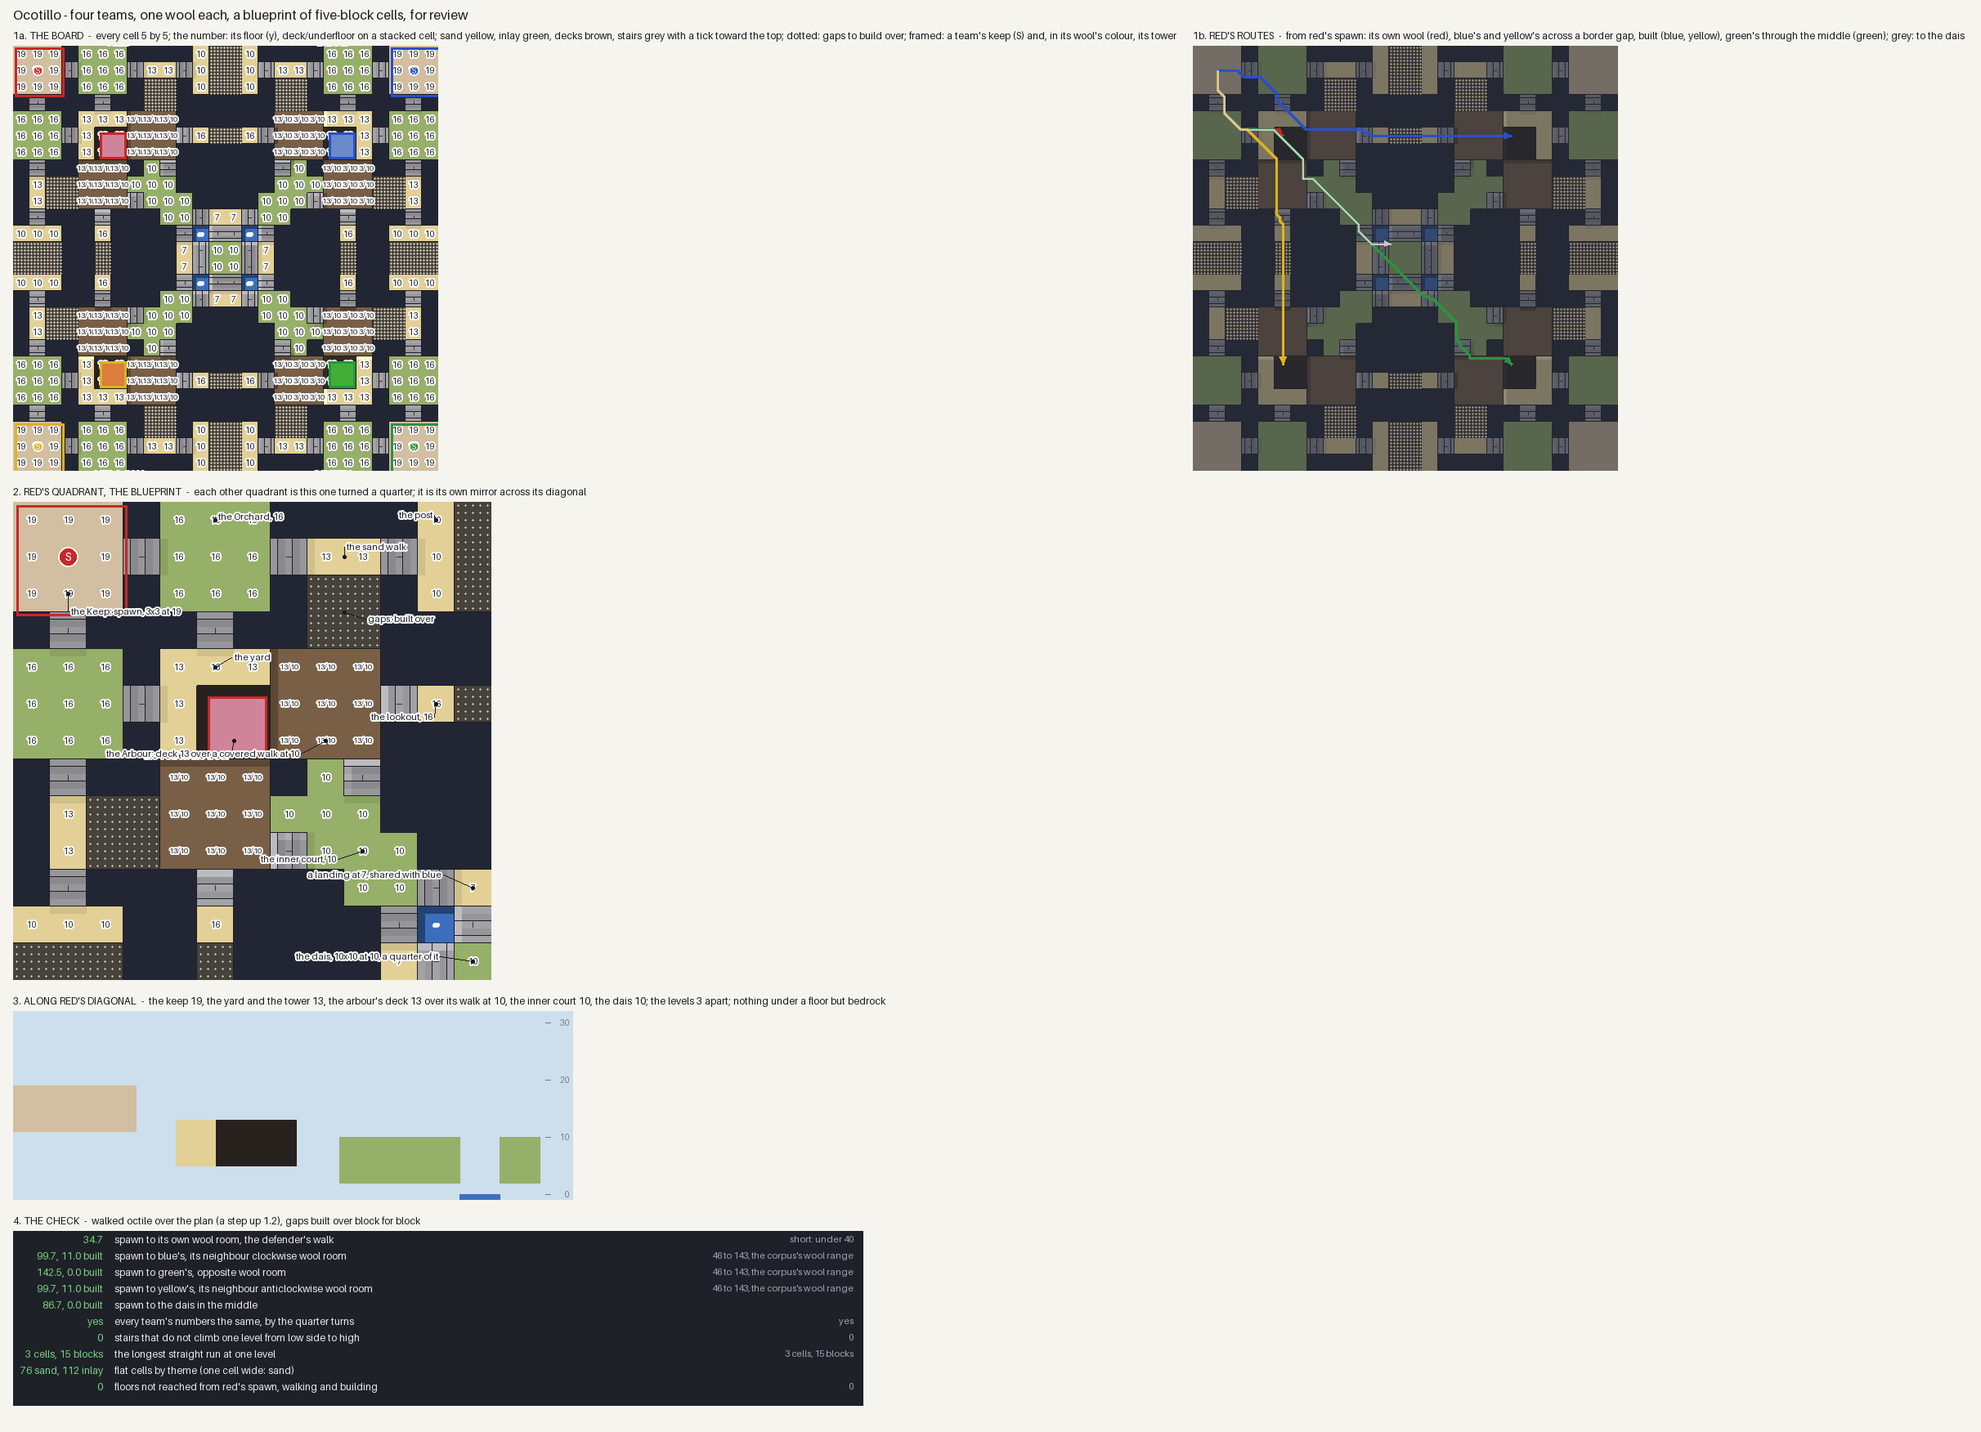
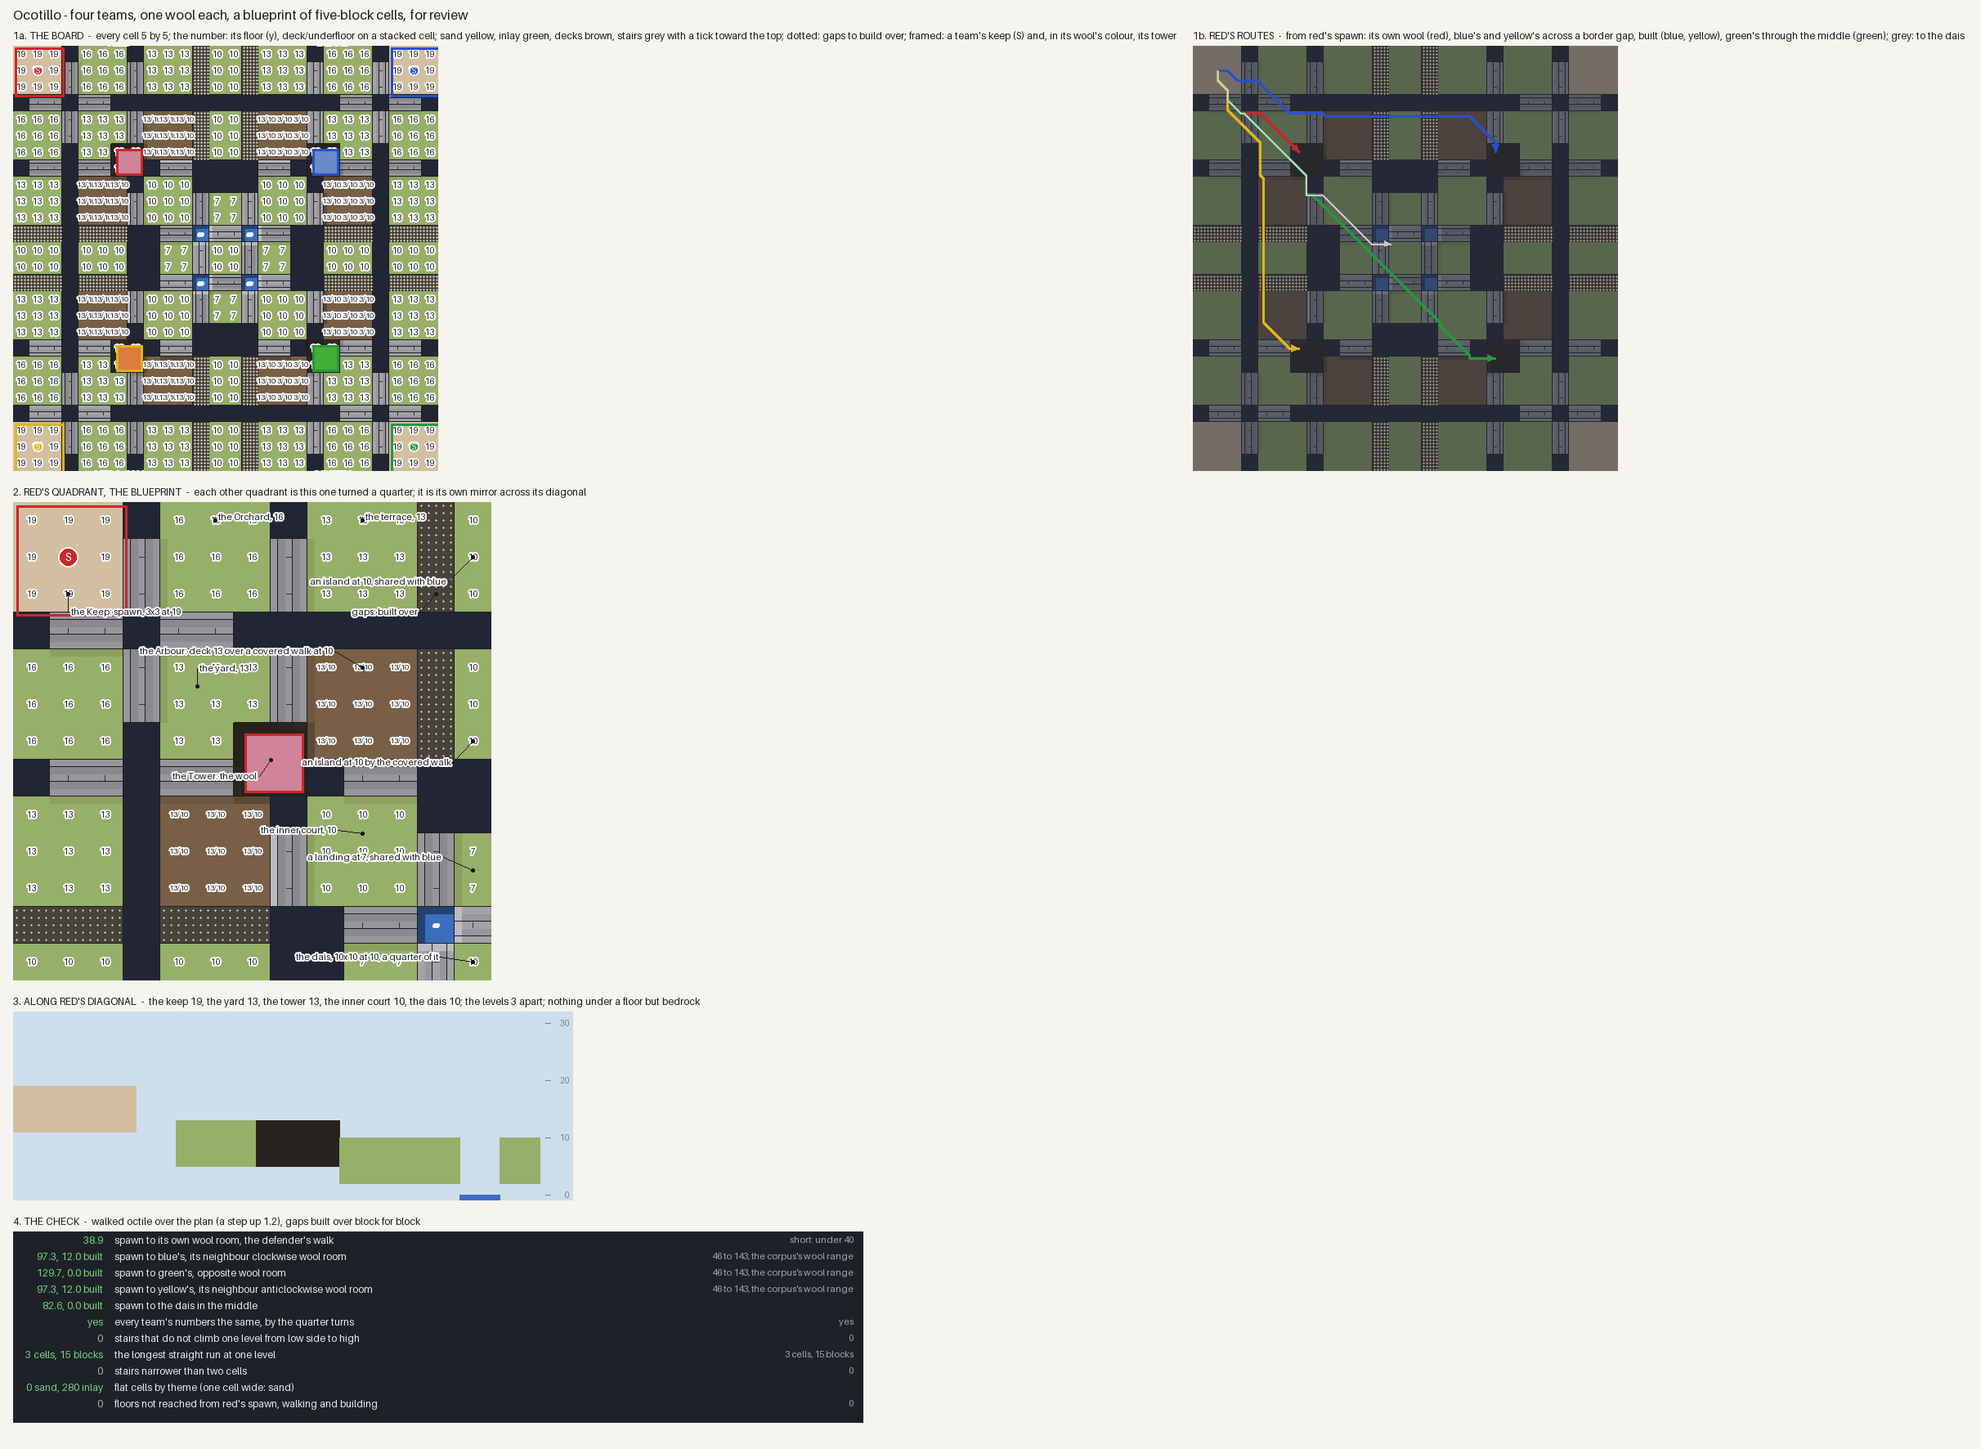
Ocotillo v2: every stair two cells wide, no piece one cell deep
After review: the keep's exits and every other stair are two cells, ten
blocks, wide; the sand walk became a terrace three by three, the posts
islands two wide with the neighbour's, the yard three by three round the
tower, and the lookouts went. The tower moved a cell inward. The check
gains a row for stairs narrower than two cells; every rule still holds
and every team's numbers are the same. v1's sketch is kept.

Claude-Session: https://claude.ai/code/session_01JFykgZF2FRCqGGugXE9LUG

diff --git a/freeform/lib/boards/ocotillo/scripts/plan.py b/freeform/lib/boards/ocotillo/scripts/plan.py
@@ -47,17 +47,17 @@ MAX_BUILD = 40
 # s< s> s^ sv a stair rising west, east, north (toward b 0) or south; ww a gap; ~~ water; .. void
 QUADRANT = [
     # a: 0   1   2   3   4   5   6   7   8   9   10  11  12
-    "K5 K5 K5 .. f4 f4 f4 .. .. .. .. f2 ww",          # b 0  the keep; the orchard; a post on the border
-    "   K5 K5 s< f4 f4 f4 s< f3 f3 s< f2 ww",          # b 1  down the wing: orchard, the sand walk, the post
-    "      K5 .. f4 f4 f4 .. ww ww .. f2 ww",          # b 2  a gap from the walk to the arbour
-    "         .. .. s^ .. .. ww ww .. .. ..",          # b 3  down from the orchard into the tower's yard
-    "            f3 f3 f3 k3 k3 k3 .. .. ..",          # b 4  the yard; the arbour, a deck over a covered walk
-    "               T3 T3 k3 k3 k3 s> f4 ww",          # b 5  the tower; up from the arbour to the lookout
-    "                  T3 k3 k3 k3 .. .. ..",          # b 6
-    "                     .. f2 s^ .. .. ..",          # b 7  into the covered walk; up onto the deck
-    "                        f2 f2 .. .. ..",          # b 8  the inner court
-    "                           f2 f2 .. ..",          # b 9
-    "                              f2 s< f1",          # b 10 down to a landing on the border
+    "K5 K5 K5 .. f4 f4 f4 .. f3 f3 f3 ww f2",          # b 0  the keep; the orchard; the terrace; an island
+    "   K5 K5 s< f4 f4 f4 s< f3 f3 f3 ww f2",          # b 1  two cells of stair down out of the keep, and on
+    "      K5 s< f4 f4 f4 s< f3 f3 f3 ww f2",          # b 2
+    "         .. s^ s^ .. .. .. .. .. .. ..",          # b 3  down from the orchard into the tower's yard
+    "            f3 f3 f3 s< k3 k3 k3 ww f2",          # b 4  the yard; down into the arbour's covered walk
+    "               f3 f3 s< k3 k3 k3 ww f2",          # b 5  the arbour: a deck at 13 over a walk at 10
+    "                  T3 T3 k3 k3 k3 ww f2",          # b 6  the tower
+    "                     T3 .. s^ s^ .. ..",          # b 7  up from the inner court onto the arbour's deck
+    "                        f2 f2 f2 .. ..",          # b 8  the inner court
+    "                           f2 f2 s< f1",          # b 9  down to a landing on the border
+    "                              f2 s< f1",          # b 10
     "                                 ~~ sv",          # b 11 up from the landing onto the dais
     "                                    f2",          # b 12 the dais, a quarter of it
 ]
@@ -103,12 +103,13 @@ def cells():
         for team, *_ in TEAMS:
             out[c] = (kind, level, d, team)
             c, d = turn_cell(*c, d)
-    # a stair climbs from the level of the cell on its low side
+    # a stair climbs one level to the cell on its high side, from the cell on its low side (a stacked cell's
+    # underfloor, when the stair runs down under its deck)
     for c, (kind, level, d, team) in list(out.items()):
         if kind == "stair":
             dx, dz = STEP[d]
-            low = out.get((c[0] - dx, c[1] - dz))
-            out[c] = (kind, low[1] if low and low[1] else None, d, team)
+            high = out.get((c[0] + dx, c[1] + dz))
+            out[c] = (kind, high[1] - 1 if high and high[1] else None, d, team)
     return out
 
 
@@ -194,7 +195,7 @@ def spawn_cell(team_index):
 def tower_cells(team_index):
     """A team's tower, as its four cells."""
     out = []
-    for a, b in ((5, 5), (6, 5), (5, 6), (6, 6)):
+    for a, b in ((6, 6), (7, 6), (6, 7), (7, 7)):
         c = (a - N, b - N)
         for _ in range(team_index):
             c, _ = turn_cell(*c)

diff --git a/freeform/lib/boards/ocotillo/scripts/plan_check.py b/freeform/lib/boards/ocotillo/scripts/plan_check.py
@@ -25,33 +25,37 @@ C = R.cells
 T = R.themes
 
 
-def level_of(c):
+def levels_of(c):
+    """The floors a cell offers: its level, and a stacked cell's underfloor one under it."""
     k, lv, d, _ = C.get(c, ("void", None, None, None))
-    if k == "stair":
-        return None
-    return lv if k in ("flat", "keep", "tower", "stacked") else None
+    if k in ("flat", "keep", "tower"):
+        return {lv}
+    return {lv, lv - 1} if k == "stacked" else set()
 
 
 # ---- the rules ---------------------------------------------------------------------------------------------
-bad_stairs = []
+bad_stairs, narrow_stairs = [], []
 for c, (k, lv, d, _) in C.items():
     if k != "stair":
         continue
     dx, dz = P.STEP[d]
-    lo, hi = level_of((c[0] - dx, c[1] - dz)), level_of((c[0] + dx, c[1] + dz))
-    if lo is None or hi is None or hi != lo + 1:
-        bad_stairs.append((c, lo, hi))
+    if lv not in levels_of((c[0] - dx, c[1] - dz)) or lv + 1 not in levels_of((c[0] + dx, c[1] + dz)):
+        bad_stairs.append((c, d, lv))
+    side = [(c[0] + dz, c[1] + dx), (c[0] - dz, c[1] - dx)]                # the cells beside it, across the rise
+    if not any(C.get(s, ("",))[0] == "stair" and C[s][2] == d and C[s][1] == lv for s in side):
+        narrow_stairs.append(c)
 
 
 def runs():
-    """The longest straight run, in cells, of flat ground at one level (keep and tower floors included)."""
+    """The longest straight run, in cells, of flat ground at one level (the keep included; the tower is a
+    building, not ground)."""
     longest, where = 0, None
     for (cx, cz), (k, lv, _, _) in C.items():
-        if k not in ("flat", "keep", "tower"):
+        if k not in ("flat", "keep"):
             continue
         for dx, dz in ((1, 0), (0, 1)):
             n = 1
-            while C.get((cx + dx * n, cz + dz * n), ("",))[0] in ("flat", "keep", "tower") and \
+            while C.get((cx + dx * n, cz + dz * n), ("",))[0] in ("flat", "keep") and \
                     C[(cx + dx * n, cz + dz * n)][1] == lv:
                 n += 1
             if n > longest:
@@ -62,6 +66,7 @@ def runs():
 longest, longest_at = runs()
 flat_cells = {c for c, v in C.items() if v[0] == "flat"}
 sand = sum(1 for c in flat_cells if T[c] == "sand")
+narrow = [c for c in flat_cells if T[c] == "sand"]
 inlay = sum(1 for c in flat_cells if T[c] == "inlay")
 
 gap = R.mask("gap")
@@ -118,6 +123,7 @@ rows.append((f"{len(bad_stairs)}", "stairs that do not climb one level from low 
              not bad_stairs))
 rows.append((f"{longest} cells, {longest * P.CELL} blocks", "the longest straight run at one level",
              "3 cells, 15 blocks", longest <= 3))
+rows.append((f"{len(narrow_stairs)}", "stairs narrower than two cells", "0", not narrow_stairs))
 rows.append((f"{sand} sand, {inlay} inlay", "flat cells by theme (one cell wide: sand)", "", True))
 rows.append((f"{unreached}", "floors not reached from red's spawn, walking and building", "0", unreached == 0))
 
@@ -126,6 +132,8 @@ for v, what, target, ok in rows:
     print(f"{what:<62} {v:<{w}}  {target:<38} {'ok' if ok else 'NO'}")
 if bad_stairs:
     print("bad stairs:", bad_stairs[:8])
+if narrow_stairs:
+    print("narrow stairs:", narrow_stairs[:8])
 if longest > 3:
     print("longest run starts at cell", longest_at)
 with open(os.path.join(HERE, "..", "renders", "plan-check.json"), "w") as f:

diff --git a/freeform/lib/boards/ocotillo/scripts/sketch.py b/freeform/lib/boards/ocotillo/scripts/sketch.py
@@ -79,13 +79,14 @@ q.raster(R, P.COLOURS)
 q.zone(R.mask("gap"), colour=(200, 190, 170), step=3)
 cell_marks(q, only_red=True)
 for name, (a, b), dx, dz in [("the Keep: spawn, 3x3 at 19", (1, 2), 0, 22), ("the Orchard, 16", (5, 0), 0, -4),
-                             ("the sand walk", (8.5, 1), 0, -12), ("the post", (11, 0), -2, -6),
-                             ("the yard", (5, 4), 20, -12), ("the Tower: the wool", (5.5, 6), -4, 18),
-                             ("the Arbour: deck 13 over a covered walk at 10", (8, 6), 30, 16),
-                             ("the lookout, 16", (11, 5), -2, 16), ("the inner court, 10", (9, 9), -30, 10),
-                             ("a landing at 7, shared with blue", (12, 10), -36, -16),
+                             ("the terrace, 13", (9, 0), 0, -4), ("an island at 10, shared with blue", (12, 1), -30, 30),
+                             ("the yard, 13", (4.5, 4.5), 0, -22), ("the Tower: the wool", (6.5, 6.5), -14, 20),
+                             ("the Arbour: deck 13 over a covered walk at 10", (9, 4), -34, -20),
+                             ("an island at 10 by the covered walk", (12, 6), -24, 26),
+                             ("the inner court, 10", (9, 8.5), -30, -4),
+                             ("a landing at 7, shared with blue", (12, 9.5), -36, -16),
                              ("the dais, 10x10 at 10, a quarter of it", (12, 12), -40, -6),
-                             ("gaps: built over", (8.5, 2.5), 26, 8)]:
+                             ("gaps: built over", (11, 2), -20, 22)]:
     x, z = quad(a, b)
     q.callout(x, z, name, dx=dx, dz=dz, size=11)
 
@@ -108,8 +109,8 @@ S.add(q)
 COL = dict(P.COLOURS)
 pts = [(P.X_MIN, P.Z_MIN), (0, 0)]
 c = SectionPanel(0, 92, 0, 32, scale=7, title="ALONG RED'S DIAGONAL",
-                 legend="the keep 19, the yard and the tower 13, the arbour's deck 13 over its walk at 10, the inner "
-                        "court 10, the dais 10; the levels 3 apart; nothing under a floor but bedrock")
+                 legend="the keep 19, the yard 13, the tower 13, the inner court 10, the dais 10; the levels 3 apart; "
+                        "nothing under a floor but bedrock")
 c.along(R, pts, COL, depth=8)
 c.level(P.MAX_BUILD, f"build to y {P.MAX_BUILD}")
 S.add(c)

diff --git a/freeform/lib/boards/ocotillo/PLAN.md b/freeform/lib/boards/ocotillo/PLAN.md
@@ -58,33 +58,38 @@ team has a near and a far neighbour.
 | Level | Floor | Pieces, in red's quadrant |
 |---|---|---|
 | 5 | 19 | the Keep, the spawn, in the corner |
-| 4 | 16 | the two Orchards on the wings; the two Lookouts |
-| 3 | 13 | the Tower and its yard; the two Arbours' decks; the sand walks |
-| 2 | 10 | the posts on the borders; the Arbours' covered walks; the inner court; the dais |
+| 4 | 16 | the two Orchards on the wings |
+| 3 | 13 | the yard and the Tower; the two terraces; the two Arbours' decks |
+| 2 | 10 | the islands on the borders; the Arbours' covered walks; the inner court; the dais |
 | 1 | 7 | the landings on the borders by the middle |
 
-**The neighbours meet across gaps, and everyone meets at the dais.** Along each border, a team's post faces its
-neighbour's across two cells of gap, and its lookout faces the other lookout across two more. By the middle, a
-landing at 7 is shared by two neighbours, with a stair up from it to each team's inner court and one onto the
-dais. The dais is ten blocks square at 10, one cell from each quadrant.
+**Every piece is at least two cells deep, and every stair two cells wide.** A stair is ten blocks across and five
+long. A cell on a border pairs with the neighbour's cell beside it, so a one-cell island or stair on the border is
+two cells, ten blocks, once the two quadrants meet.
+
+**The neighbours meet across gaps, and everyone meets at the dais.** On each wing a team's terrace faces an island
+on the border across one cell of gap, and the neighbour's terrace faces it from the other side. Beside each Arbour
+a second island faces the covered walk across a gap. By the middle, a landing at 7 is shared by two neighbours,
+with a stair up from it to each team's inner court and one onto the dais. The dais is ten blocks square at 10, one
+cell from each quadrant.
 
 ## The places, in red's quadrant
 
 - **The Keep** (19): the spawn, three cells by three, with the three monuments for the other teams' wools.
-  Two stairs lead down out of it, one onto each wing.
-- **The Orchards** (16): three by three on each wing, inlay with two trees.
-- **The sand walks** (13): one cell wide and two long, down a stair from each Orchard toward the border.
-- **The posts** (10): one cell wide and three long on each border, facing the neighbour's post across a gap.
-- **The yard** (13): an L of sand round two sides of the Tower, down a stair from each Orchard.
-- **The Tower** (13): the wool room, two cells by two on the diagonal, its door onto the yard. The wool's heart
+  Two stairs, each two cells wide, lead down out of it, one onto each wing.
+- **The Orchards** (16): three by three on each wing.
+- **The terraces** (13): three by three, down a stair from each Orchard toward the border.
+- **The outer islands** (10): one cell wide and three long on each border, two wide with the neighbour's, between
+  the two teams' terraces across a cell of gap on each side.
+- **The yard** (13): three by three less the Tower's corner, down a stair from each Orchard.
+- **The Tower** (13): the wool room, two cells by two on the diagonal, its doors onto the yard. The wool's heart
   floats over it.
-- **The Arbours** (13 over 10): stacked pieces three by three either side of the Tower, their decks level with
-  the yard and their covered walks open onto the inner court. Two cells of gap lie between each Arbour and the
-  sand walk beyond it.
-- **The Lookouts** (16): one cell, up a stair from each Arbour's deck, facing the neighbour's across a gap.
-- **The inner court** (10): an L of inlay by the middle, with a stair up onto each Arbour's deck and an entry
-  into each covered walk.
-- **The landings** (7): one cell each, on the borders by the middle, shared with the neighbour.
+- **The Arbours** (13 over 10): stacked pieces three by three either side of the Tower. A stair runs down from the
+  yard into each covered walk, and one up from the inner court onto each deck.
+- **The inner islands** (10): beside each Arbour on the border, across a cell of gap from its covered walk.
+- **The inner court** (10): three by three by the middle, with a stair up onto each Arbour's deck and one down to
+  each landing.
+- **The landings** (7): one cell wide on each border by the middle, two with the neighbour's.
 - **The dais** (10): its quarter of the ten-block square in the middle, a stair up onto it from each landing.
 
 ## The numbers
@@ -93,21 +98,23 @@ dais. The dais is ten blocks square at 10, one cell from each quadrant.
 
 | Measure | Value | Target |
 |---|---|---|
-| Spawn to its own wool room | 34.7 | short, under 40 |
-| Spawn to a neighbour's wool room | 99.7, 11 of it built across a border gap | 46 to 143 |
-| Spawn to the opposite team's wool room | 142.5, walked through the middle | 46 to 143 |
-| Spawn to the dais | 86.7, walked | |
+| Spawn to its own wool room | 38.9 | short, under 40 |
+| Spawn to a neighbour's wool room | 97.3, 12 of it built across a border gap | 46 to 143 |
+| Spawn to the opposite team's wool room | 129.7, walked through the middle | 46 to 143 |
+| Spawn to the dais | 82.6, walked | |
 | Stairs that do not climb one level | 0 | 0 |
+| Stairs narrower than two cells | 0 | 0 |
 | The longest straight run at one level | 3 cells, 15 blocks | 3 cells |
-| Flat cells by theme | 76 sand, 112 inlay | |
+| Flat cells by theme | 0 sand, 280 inlay | |
 | Floors not reached from a spawn | 0 | 0 |
 
 **A neighbour is the closer target, and only by building.** A team reaches either neighbour's wool by building
 across a border gap, ten blocks, or walks round by the middle. The opposite team's wool is walked, but only
 through the dais, where all four teams cross.
 
-**The opposite team's wool is at the top of the corpus's range.** If the board plays long, the first change is
-to bring the towers one cell nearer the middle.
+**No piece is one cell wide now, so no piece is sand by the shape rule.** Sand still lies inside the inlay, as
+the field round each kerbed bed, as it does in Brittlebush. If whole pieces of sand are wanted, the outer islands
+are the place: they stand between two teams and are the most exposed ground on the board.
 
 ## What the build will need from the library
 
@@ -117,3 +124,15 @@ to bring the towers one cell nearer the middle.
   library works that out for two teams only.
 - **The Brittlebush pieces as library pieces.** The edge, the frame and fields, the stair cell, the stacked cell
   and the tower are in the study's `style.py`. A blueprint board wants them keyed to a cell.
+
+## What changed after the first review
+
+**The first layout had too many pieces one cell wide or one cell deep.** It is kept as
+`renders/00-plan-sketch-v1.png`.
+
+- **Every stair is two cells wide.** The keep's two exits, the stairs off the Orchards, into the covered walks,
+  onto the decks and to the landings are all ten blocks across.
+- **The narrow pieces were widened or folded into others.** The sand walk became a terrace three by three, the
+  posts became islands two wide with the neighbour's, the yard became three by three round the Tower, and the
+  lookouts went.
+- **The Tower moved one cell inward,** onto the yard's corner. The yard meets it on two sides and the Arbours' decks on the other two.
